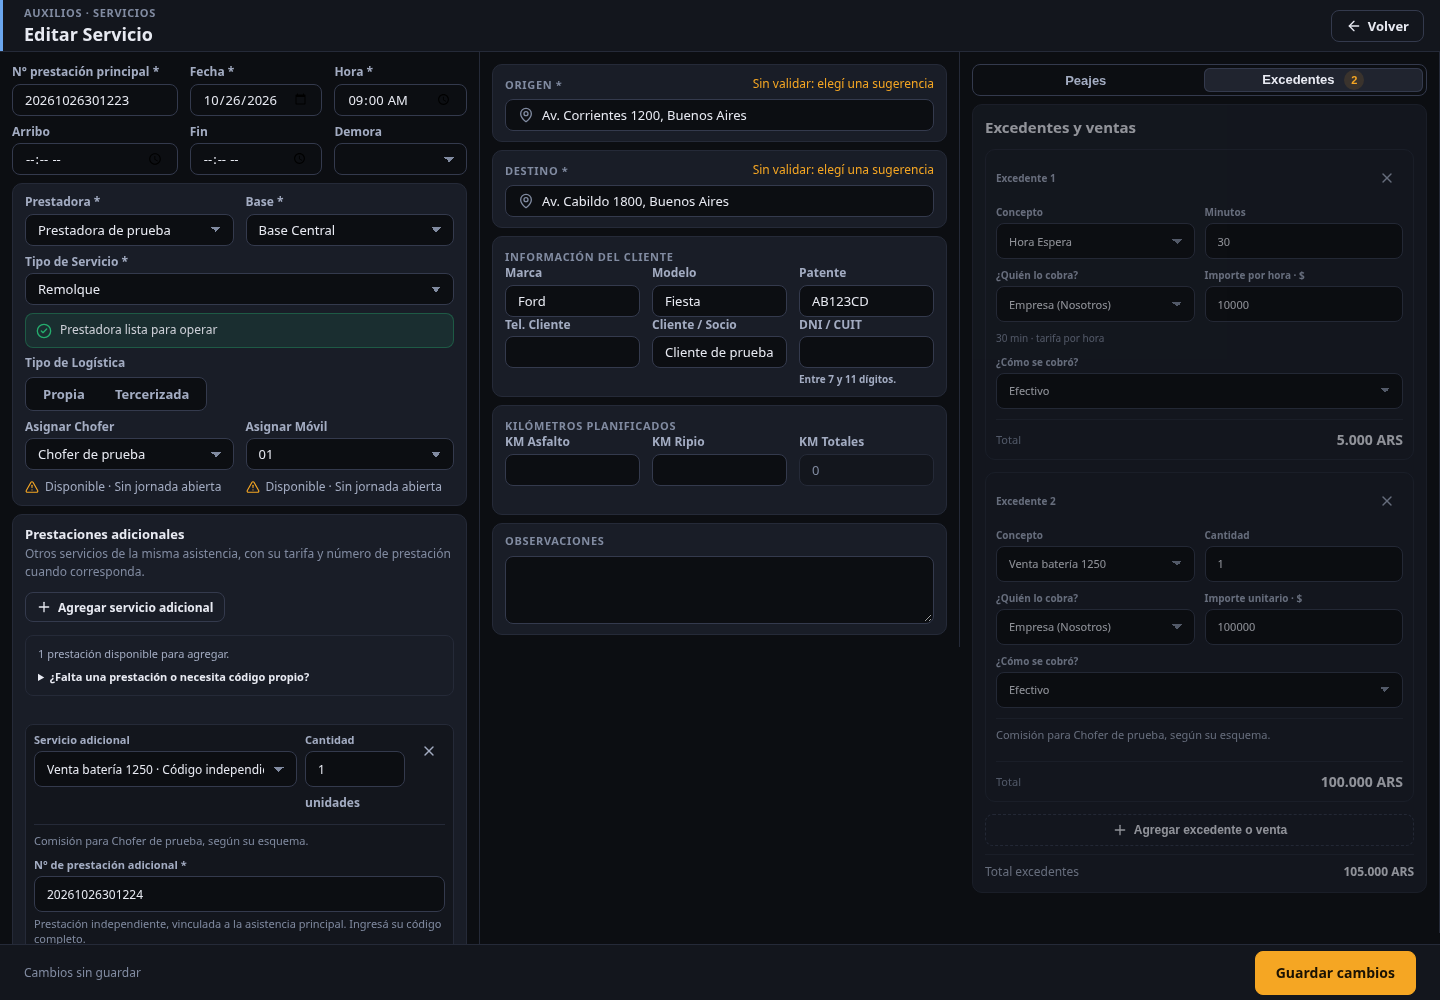
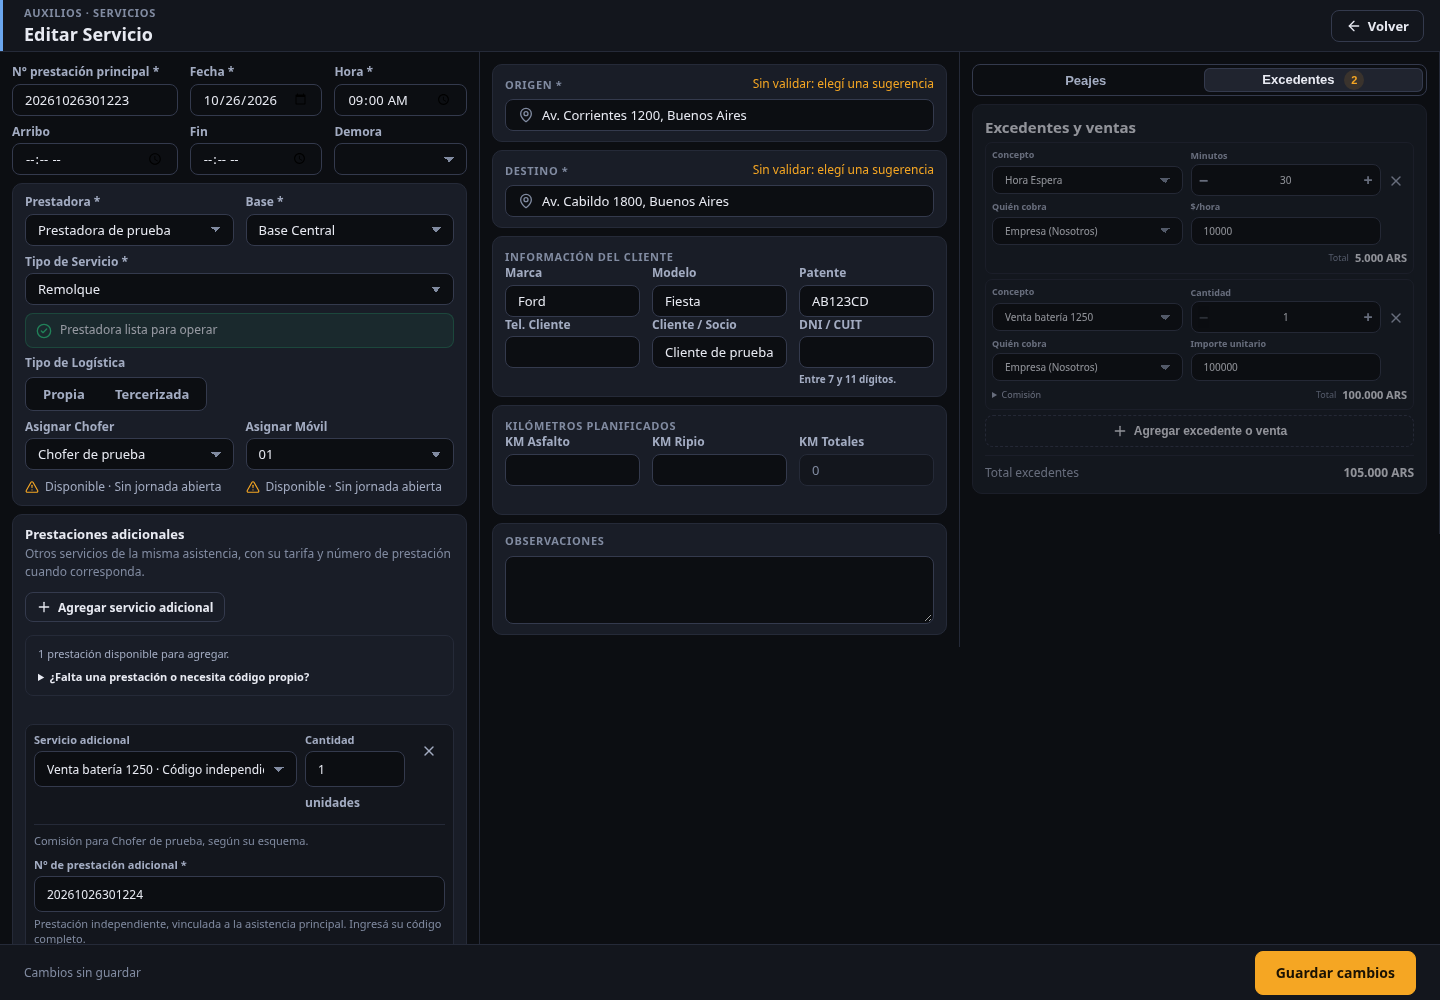
Match excess rows to toll density and add quantity steppers

diff --git a/operator-service-commercial-addons-v1.js b/operator-service-commercial-addons-v1.js
@@ -59,18 +59,16 @@ function renderTollRow(row,index,mode){const {rate}=rateFor(row.toll_id),qty=Mat
  ${disabled?'':`<button type="button" class="osca-remove" data-ca="remove-toll" data-index="${index}" aria-label="Quitar peaje">${ico('x')}</button>`}
  </div>`;}
 function commissionNote(conceptId){const w=W(),rules=(w?.context?.commission_assignments||[]).filter(x=>String(x.concept_id)===String(conceptId));if(!rules.length)return'';const driverId=w.data?.assigned_driver_id||w.serviceSnapshot?.responsible_driver_id||w.serviceSnapshot?.activation_driver_id||w.intakeContext?.service?.assigned_driver_id,driver=O()?.driver?.(driverId),name=driver?.full_name||w.serviceSnapshot?.driver_name||'Chofer del servicio';return `<small class="osca-commission-note">${!driverId?'Comisión: se atribuye al chofer responsable al finalizar.':rules.some(x=>String(x.driver_id)===String(driverId))?'Comisión para '+esc(name)+', según su esquema.':'El chofer responsable no tiene una comisión asignada para este concepto.'}</small>`;}
-function renderExcessRow(row,index){const meta=O()?.excessConcepts?.().find(x=>String(x.concept_id)===String(row.concept_id)),hourly=window.AuxiliosServiceImprovements?.isHourly({...meta,...row}),unit=meta?.pricing_unit||row.pricing_unit,disabled=readOnly(),errors=state.missing?O()?.excessRowErrors?.(row)||{}:{},field=(key,label,control)=>`<label class="osca-excess-field${errors[key]?' is-missing':''}"><span>${label}</span>${control}${errors[key]?`<small class="osca-field-error" role="alert">${esc(errors[key])}</small>`:''}</label>`,attrs=key=>`data-ca-excess-field="${key}" data-index="${index}" ${disabled?'disabled':''} ${errors[key]?'aria-invalid="true"':''}`,qtyLabel=hourly?'Minutos':unit==='km'?'Kilómetros':unit==='day'?'Días':'Cantidad',cp=commercial().customer_payment||{},methods=[...PAYMENTS,...(W()?.administrativeEdit?[['not_collected','No cobrado']]:[['to_define','A definir']])];
- return `<article class="osca-excess-card" data-excess-index="${index}"><header><b>Excedente ${index+1}</b>${disabled?'':`<button type="button" class="osca-remove" data-ca="remove-excess" data-index="${index}" aria-label="Quitar excedente ${index+1}">${ico('x')}</button>`}</header>
- <div class="osca-excess-grid">
+function excessQuantityMeta(row){const meta=O()?.excessConcepts?.().find(x=>String(x.concept_id)===String(row.concept_id)),hourly=!!window.AuxiliosServiceImprovements?.isHourly({...meta,...row}),unit=meta?.pricing_unit||row.pricing_unit;return{hourly,unit,step:hourly?15:unit==='km'?.1:unit==='day'?.5:1,value:hourly?window.AuxiliosServiceImprovements.hoursToMinutes(row.quantity):num(row.quantity)};}
+function renderExcessRow(row,index){const {hourly,unit,step,value}=excessQuantityMeta(row),disabled=readOnly(),errors=state.missing?O()?.excessRowErrors?.(row)||{}:{},field=(key,label,control)=>`<label class="osca-excess-field${errors[key]?' is-missing':''}"><span>${label}</span>${control}${errors[key]?`<small class="osca-field-error" role="alert">${esc(errors[key])}</small>`:''}</label>`,attrs=key=>`data-ca-excess-field="${key}" data-index="${index}" ${disabled?'disabled':''} ${errors[key]?'aria-invalid="true"':''}`,qtyLabel=hourly?'Minutos':unit==='km'?'Kilómetros':unit==='day'?'Días':'Cantidad',commission=commissionNote(row.concept_id);
+ return `<article class="osca-excess-card" data-excess-index="${index}"><div class="osca-excess-grid">
  ${field('concept_id','Concepto',`<select ${attrs('concept_id')}>${conceptOptions(row.concept_id,row.concept_name)}</select>`)}
- ${field('quantity',qtyLabel,`<input type="number" min="${hourly?.6:.01}" step="${hourly?.6:.01}" inputmode="decimal" value="${row.quantity===''?'':hourly?window.AuxiliosServiceImprovements.hoursToMinutes(row.quantity):esc(row.quantity)}" data-minutes="${!!hourly}" ${attrs('quantity')}>`)}
- ${field('collector_agent','¿Quién lo cobra?',`<select ${attrs('collector_agent')}>${optionRows(COLLECTORS,row.collector_agent,'Seleccionar…')}</select>`)}
- ${field('unit_amount',hourly?'Importe por hora · $':unit==='km'?'Importe por km · $':unit==='day'?'Importe por día · $':'Importe unitario · $',`<input type="number" min="0.01" step="0.01" inputmode="decimal" placeholder="0,00" value="${row.unit_amount===''?'':esc(row.unit_amount)}" ${attrs('unit_amount')}>`)}
- </div>
+ <div class="osca-excess-field${errors.quantity?' is-missing':''}"><span>${qtyLabel}</span><div class="osca-stepper osca-excess-stepper"><button type="button" data-ca="excess-qty" data-index="${index}" data-delta="-1" ${disabled||value<=step?'disabled':''} aria-label="Reducir ${qtyLabel.toLowerCase()}">−</button><input aria-label="${qtyLabel}" type="number" min="${hourly?.6:.01}" step="${hourly?.6:.01}" inputmode="decimal" value="${row.quantity===''?'':esc(value)}" data-minutes="${hourly}" ${attrs('quantity')}><button type="button" data-ca="excess-qty" data-index="${index}" data-delta="1" ${disabled?'disabled':''} aria-label="Aumentar ${qtyLabel.toLowerCase()}">+</button></div>${errors.quantity?`<small class="osca-field-error" role="alert">${esc(errors.quantity)}</small>`:''}</div>
+ ${field('collector_agent','Quién cobra',`<select ${attrs('collector_agent')}>${optionRows(COLLECTORS,row.collector_agent,'Seleccionar…')}</select>`)}
+ ${field('unit_amount',hourly?'$/hora':unit==='km'?'$/km':unit==='day'?'$/día':'Importe unitario',`<input type="number" min="0.01" step="0.01" inputmode="decimal" placeholder="0,00" value="${row.unit_amount===''?'':esc(row.unit_amount)}" ${attrs('unit_amount')}>`)}
+ </div>${disabled?'':`<button type="button" class="osca-remove" data-ca="remove-excess" data-index="${index}" aria-label="Quitar excedente ${index+1}">${ico('x')}</button>`}
  ${isExcessOther(row.concept_id)?field('concept_name','Descripción',`<input type="text" maxlength="80" placeholder="¿Qué se cobró?" value="${esc(row.concept_name||'')}" ${attrs('concept_name')}>`):''}
- ${hourly?`<small class="osca-excess-help" data-excess-duration="${index}">${window.AuxiliosServiceImprovements.duration(row.quantity)} · tarifa por hora</small>`:''}
- ${row.collector_agent==='company'?`<label class="osca-excess-field"><span>¿Cómo se cobró?</span><select data-ca-excess-payment="${index}" ${disabled?'disabled':''}>${optionRows(methods,cp.primary,'Seleccionar medio…')}</select>${cp.secondary?`<small class="osca-excess-help">${esc(paymentName(cp.primary))} + ${esc(paymentName(cp.secondary))}</small>`:''}</label>`:row.collector_agent==='provider'?'<small class="osca-excess-help">Cobro a cargo de la prestadora.</small>':''}
- ${commissionNote(row.concept_id)}<footer><small>Total</small><b data-excess-total="${index}">${money(num(row.quantity)*num(row.unit_amount),row.currency)}</b></footer>
+ <footer>${commission?`<details class="osca-excess-commission"><summary>Comisión</summary>${commission}</details>`:''}<small>Total</small><b data-excess-total="${index}">${money(num(row.quantity)*num(row.unit_amount),row.currency)}</b></footer>
  </article>`;}
 function actualTolls(){const rows=W()?.data?.actual_tolls||[];if(!rows.length)return'';return`<div class="osca-actual"><b>Peajes reales informados</b>${rows.map(row=>`<span>${esc(row.toll_name||'Peaje')} · ${Math.max(1,num(row.quantity)||1)} × ${money(row.unit_amount,row.currency||'ARS')}</span>`).join('')}</div>`;}
 function coverageList(c,disabled){return`<div class="osca-format-list" role="radiogroup" aria-label="Formato de cobro">${COVERAGE.map(([value,label])=>`<button type="button" role="radio" aria-checked="${String(c.toll_coverage_mode)===value}" data-ca="coverage" data-value="${value}" class="${String(c.toll_coverage_mode)===value?'active':''}" ${disabled?'disabled':''}><span class="osca-radio"></span><b>${esc(label)}</b></button>`).join('')}</div>`;}
@@ -103,16 +101,16 @@ function addDetectedTollsAdmin(items){const c=commercial(),payer=fixedPayer(c.to
 /* Los campos de las filas ya no llevan el rótulo a la vista (ahorra espacio): cada uno lo conserva para lectores de pantalla y al pasar el mouse. */
 function labelFields(){document.querySelectorAll('.osv4-reactive .osca-matrix-row > [data-label]').forEach(box=>{const name=box.dataset.label,control=box.querySelector('select,input');if(control&&!control.getAttribute('aria-label')){control.setAttribute('aria-label',name);if(!control.title)control.title=name;}});}
 function customerPaymentProps(){const o=O(),c=commercial(),tolls=o?.commercialCustomerTollTotal?.()||0,excess=o?.commercialCompanyExcessTotal?.()||0;return{total:o?.customerPaymentTotal?.()||0,breakdown:[{label:'Peajes del cliente',amount:tolls},{label:'Excedentes que cobra la Empresa',amount:excess}],value:c.customer_payment||{},allowToDefine:!W()?.administrativeEdit,allowNotCollected:!!W()?.administrativeEdit,disabled:readOnly(),showErrors:!!state.missing,hint:'Un solo cobro para todo lo que paga el cliente. Si pagó con dos medios, cargá cuánto fue con el segundo.',onChange:next=>{o?.setCustomerPayment?.(next);paintCustomerPayment();}};}
-function paintCustomerPayment(){document.querySelectorAll('[data-ca-excess-payment]').forEach(select=>{select.value=commercial().customer_payment?.primary||'';select.dispatchEvent(new Event('change',{bubbles:false}));});const slot=document.getElementById('osca-customer-payment');if(slot&&window.AuxiliosCustomerPayment)window.AuxiliosCustomerPayment.render(slot,customerPaymentProps());}
+function paintCustomerPayment(){const slot=document.getElementById('osca-customer-payment');if(slot&&window.AuxiliosCustomerPayment)window.AuxiliosCustomerPayment.render(slot,customerPaymentProps());}
 /* Corrección administrativa (remito firmado): misma pantalla que Nuevo servicio y, abajo, los cargos del remito para comparar. */
 function administrativeReport(){const w=W();if(!w?.administrativeEdit||w.intakeActivated)return'';return`<details class="osaa-original" ${(state.reportOpen??reportOpenByDefault(w))?'open':''}><summary>Cargos del remito firmado</summary>${(()=>{const review=window.AuxiliosRemitoReviewV2?.reviewReport?.();return review?review+reportedPayment(w.reportedAddons):reportedCharges(w.reportedAddons);})()}</details>`;}
 function render(){const w=W();if(w&&!state.autoOpened&&w.mode==='create'&&!w.administrativeEdit&&!(w.intakeId&&!w.intakeActivated)){state.autoOpened=true;if(state.open==null)state.open='tolls';}renderInner();labelFields();/* Listas con el aspecto del sistema (como el resto de los formularios). */document.querySelectorAll('.osv4-reactive .osca-panel select:not([data-ax-enhanced])').forEach(x=>window.AxUI?.select?.(x));}
 function renderInner(){const w=W(),column=document.querySelector('.osv4-reactive .actions-column');if(!w||!column)return;state.reportOpen=column.querySelector('details.osaa-original')?.open??state.reportOpen;const classification=document.getElementById('osv4-activation-classification');classification?.remove();const review=column.querySelector('#osv4-review-slot');review?.remove();/* El historial vive en esta columna y se conserva al repintarla. */const history=column.querySelector('#osv4-history-panel');state.historyAllowed=history?history.dataset.allowed==='true':state.historyAllowed;history?.remove();/* Interruptores sí/no (Pinacars): se conservan al repintar. */const toggles=column.querySelector('#osv4-toggles');toggles?.remove();/* Tercerizado: también se conserva, arriba de todo. */const terc=column.querySelector('#osv4-terc');terc?.remove();/* Cobro al cliente (React): se conserva el nodo para no perder el estado del componente. */const cpSlot=column.querySelector('#osca-customer-payment');cpSlot?.remove();const restoreReview=()=>{if(toggles)column.prepend(toggles);if(terc)column.prepend(terc);if(classification)column.append(classification);column.append(review||Object.assign(document.createElement('div'),{id:'osv4-review-slot',className:'osv4-review-slot'}));if(history){history.hidden=!(history.dataset.allowed==='true'&&state.open==='history');column.append(history);}};const c=commercial(),disabled=readOnly(),provider=O()?.commercialProviderTollTotal?.()||0,customer=O()?.commercialCustomerTollTotal?.()||0,excess=O()?.commercialCustomerExcessTotal?.()||0;column.innerHTML=`${activationCard()}${W()?.serviceSnapshot?.driver_activated||w.administrativeEdit?'':remitoCard()}${actionTabs(c)}
  ${state.open==='tolls'?`<section class="osca-panel tolls">${coverageControl(c,disabled)}${tollMatrix(c)}${actualTolls()}${c.tolls.length?`<div class="osca-summary"><span>A cargo de la Prestadora</span><b>${money(provider)}</b><span>A cargo del cliente</span><b>${money(customer)}</b></div>`:''}</section>`:''}
  ${state.open==='excess'?`<section class="osca-panel excess">${excessMatrix(c)}${c.excess_charges.length?`<div class="osca-summary single"><span>Total excedentes</span><b data-excess-summary>${money(excess)}</b></div>`:''}</section>`:''}<div id="osca-customer-payment-anchor"></div>${administrativeReport()}`;const anchor=column.querySelector('#osca-customer-payment-anchor'),slot=cpSlot||Object.assign(document.createElement('div'),{id:'osca-customer-payment',className:'osca-customer-payment'});const showCp=(O()?.customerPaymentTotal?.()||0)>0;slot.hidden=!showCp;anchor.replaceWith(slot);restoreReview();if(showCp)paintCustomerPayment();}
-function onClick(event){const button=event.target.closest?.('[data-ca]');if(!button)return;const action=button.dataset.ca;if(action==='finalize-activated')return window.OperatorServiceLifecycleV2?.openActivatedFinalize?.(W()?.serviceId);if(action==='open-remito')return window.abrirRemitoFirmadoOperador?.(W()?.serviceId);if(action==='toggle-tolls'){state.open=state.open==='tolls'?null:'tolls';state.coverageEditing=false;return render();}if(action==='toggle-history'){state.open=state.open==='history'?null:'history';return render();}if(action==='toggle-excess'){state.open=state.open==='excess'?null:'excess';return render();}if(action==='change-coverage'&&!readOnly()){state.coverageEditing=true;return render();}if(readOnly())return;if(action==='coverage'){state.coverageEditing=false;return O()?.setCommercialCoverage?.(button.dataset.value||'');}if(action==='new-toll')return O()?.addCommercialToll?.();if(action==='detect-tolls'){Promise.resolve(window.AuxiliosTollDetection?.detect?.()).finally(()=>render());return;}if(action==='new-excess'){const rows=commercial().excess_charges,empty=rows.findIndex(r=>!r.concept_id);if(empty<0)O()?.addCommercialExcess?.();const index=empty<0?commercial().excess_charges.length-1:empty;const input=document.querySelector(`[data-excess-index="${index}"] [data-ca-excess-field="concept_id"]`);(input?.nextElementSibling?.querySelector('.ax-select-btn')||input)?.focus();return;}if(action==='remove-toll')return O()?.removeCommercialToll?.(Number(button.dataset.index));if(action==='duplicate-tolls')return O()?.duplicateCommercialTolls?.();if(action==='remove-excess')return O()?.removeCommercialExcess?.(Number(button.dataset.index));if(action==='toll-payer')return O()?.updateCommercialToll?.(Number(button.dataset.index),'payer_agent',button.dataset.value,true);if(action==='toll-qty'){const i=Number(button.dataset.index),r=commercial().tolls[i];if(!r)return;return O()?.updateCommercialToll?.(i,'quantity',Math.max(1,Math.round(num(r.quantity)||1)+Number(button.dataset.delta||0)),true);}}
+function onClick(event){const button=event.target.closest?.('[data-ca]');if(!button)return;const action=button.dataset.ca;if(action==='finalize-activated')return window.OperatorServiceLifecycleV2?.openActivatedFinalize?.(W()?.serviceId);if(action==='open-remito')return window.abrirRemitoFirmadoOperador?.(W()?.serviceId);if(action==='toggle-tolls'){state.open=state.open==='tolls'?null:'tolls';state.coverageEditing=false;return render();}if(action==='toggle-history'){state.open=state.open==='history'?null:'history';return render();}if(action==='toggle-excess'){state.open=state.open==='excess'?null:'excess';return render();}if(action==='change-coverage'&&!readOnly()){state.coverageEditing=true;return render();}if(readOnly())return;if(action==='coverage'){state.coverageEditing=false;return O()?.setCommercialCoverage?.(button.dataset.value||'');}if(action==='new-toll')return O()?.addCommercialToll?.();if(action==='detect-tolls'){Promise.resolve(window.AuxiliosTollDetection?.detect?.()).finally(()=>render());return;}if(action==='new-excess'){const rows=commercial().excess_charges,empty=rows.findIndex(r=>!r.concept_id);if(empty<0)O()?.addCommercialExcess?.();const index=empty<0?commercial().excess_charges.length-1:empty;const input=document.querySelector(`[data-excess-index="${index}"] [data-ca-excess-field="concept_id"]`);(input?.nextElementSibling?.querySelector('.ax-select-btn')||input)?.focus();return;}if(action==='remove-toll')return O()?.removeCommercialToll?.(Number(button.dataset.index));if(action==='duplicate-tolls')return O()?.duplicateCommercialTolls?.();if(action==='remove-excess')return O()?.removeCommercialExcess?.(Number(button.dataset.index));if(action==='toll-payer')return O()?.updateCommercialToll?.(Number(button.dataset.index),'payer_agent',button.dataset.value,true);if(action==='excess-qty'){const i=Number(button.dataset.index),row=commercial().excess_charges[i];if(!row)return;const q=excessQuantityMeta(row),value=Math.round(Math.max(q.hourly?.6:.01,(q.value||0)+q.step*Number(button.dataset.delta||0))*100)/100;return O()?.updateCommercialExcess?.(i,'quantity',q.hourly?window.AuxiliosServiceImprovements.minutesToHours(value):value,true);}if(action==='toll-qty'){const i=Number(button.dataset.index),r=commercial().tolls[i];if(!r)return;return O()?.updateCommercialToll?.(i,'quantity',Math.max(1,Math.round(num(r.quantity)||1)+Number(button.dataset.delta||0)),true);}}
 function onInput(event){if(readOnly())return;const target=event.target;if(target.dataset.caField==='unit_amount')O()?.updateCommercialToll?.(Number(target.dataset.index),'unit_amount',target.value,false);if(target.dataset.caField==='quantity')O()?.updateCommercialToll?.(Number(target.dataset.index),target.dataset.caField,target.value,false);if(['quantity','unit_amount','concept_name'].includes(target.dataset.caExcessField))O()?.updateCommercialExcess?.(Number(target.dataset.index),target.dataset.caExcessField,target.value===''?'':target.dataset.minutes==='true'?window.AuxiliosServiceImprovements.minutesToHours(target.value):target.value,false);if(target.dataset.caExcessField){const key=target.dataset.caExcessField,field=target.closest('.osca-excess-field'),errors=O()?.excessRowErrors?.(commercial().excess_charges[Number(target.dataset.index)])||{};if(!errors[key]){target.removeAttribute('aria-invalid');field?.classList.remove('is-missing');field?.querySelector('.osca-field-error')?.remove();}const summary=document.querySelector('[data-excess-summary]');if(summary)summary.textContent=money(O()?.commercialCustomerExcessTotal?.()||0);const i=Number(target.dataset.index),row=commercial().excess_charges[i],total=document.querySelector(`[data-excess-total="${i}"]`);if(total&&row)total.textContent=money(num(row.quantity)*num(row.unit_amount),row.currency);const duration=document.querySelector(`[data-excess-duration="${i}"]`);if(duration&&row)duration.textContent=window.AuxiliosServiceImprovements.duration(row.quantity)+' · tarifa por hora';paintCustomerPayment();}}
-function onChange(event){if(readOnly())return;const target=event.target;if(target.dataset.caExcessPayment!==undefined){const cp=commercial().customer_payment||{},primary=target.value,reset=primary===cp.secondary||['to_define','not_collected'].includes(primary);O()?.setCustomerPayment?.({primary,...(reset?{secondary:'',secondary_amount:''}:{})});render();return;}if(target.dataset.caField!==undefined)return O()?.updateCommercialToll?.(Number(target.dataset.index),target.dataset.caField,target.value,true);if(target.dataset.caExcessField!==undefined)return O()?.updateCommercialExcess?.(Number(target.dataset.index),target.dataset.caExcessField,target.value===''?'':target.dataset.minutes==='true'?window.AuxiliosServiceImprovements.minutesToHours(target.value):target.value,!['quantity','unit_amount','concept_name'].includes(target.dataset.caExcessField));}
+function onChange(event){if(readOnly())return;const target=event.target;if(target.dataset.caField!==undefined)return O()?.updateCommercialToll?.(Number(target.dataset.index),target.dataset.caField,target.value,true);if(target.dataset.caExcessField!==undefined)return O()?.updateCommercialExcess?.(Number(target.dataset.index),target.dataset.caExcessField,target.value===''?'':target.dataset.minutes==='true'?window.AuxiliosServiceImprovements.minutesToHours(target.value):target.value,!['quantity','unit_amount','concept_name'].includes(target.dataset.caExcessField));}
 function bind(){if(state.bound)return;state.bound=true;document.addEventListener('click',onClick);document.addEventListener('input',onInput);document.addEventListener('change',onChange);}
 /* Abierto mientras se revisa; retraído cuando el servicio ya está cerrado o
    se abre solo para consultar. Si el usuario lo abre o cierra, se respeta. */

diff --git a/operator-service-commercial-addons-v1.css b/operator-service-commercial-addons-v1.css
@@ -212,3 +212,24 @@
 .osca-excess-card .ax-select-box{min-width:0;width:100%}
 .osca-excess-card .ax-select-btn{font-size:11px!important;min-width:0;overflow:hidden}
 .osca-excess-card .osca-excess-help{font-size:10px;line-height:1.35}
+
+/* Compact excess rows, matching the toll controls. Payment stays in Cobro al cliente. */
+.osca-excess-editor,.osca-excess-list{gap:5px}
+.osca-excess-card{grid-template-columns:minmax(0,1fr) 22px;gap:4px;padding:6px;border-radius:7px}
+.osca-excess-card .osca-excess-grid{grid-column:1;grid-row:1;gap:5px 8px}
+.osca-excess-card .osca-excess-field{gap:2px}
+.osca-excess-card .osca-excess-field>span{font-size:9px}
+.osca-excess-card :is(input,select),.osca-excess-card .ax-select-btn{height:28px!important;min-height:28px!important;padding-top:2px;padding-bottom:2px;font-size:10px!important}
+.osca-excess-card>.osca-remove{grid-column:2;grid-row:1;align-self:start;margin-top:14px;width:22px;height:28px;min-height:28px!important}
+.osca-excess-card>.osca-excess-field{grid-column:1/-1}
+.osca-excess-card>footer{grid-column:1/-1;gap:6px;justify-content:flex-end;padding:0;border:0;min-height:18px}
+.osca-excess-card>footer small{font-size:9px}.osca-excess-card>footer b{font-size:11px}
+.osca-excess-stepper{display:grid;grid-template-columns:24px minmax(0,1fr) 24px;min-width:0;height:28px}
+.osca-excess-stepper input{text-align:center;width:100%;padding:0!important;border:0!important;background:transparent!important;appearance:textfield;-moz-appearance:textfield}
+.osca-excess-stepper input::-webkit-inner-spin-button,.osca-excess-stepper input::-webkit-outer-spin-button{-webkit-appearance:none;margin:0}
+.osca-excess-stepper button{width:24px!important;height:26px!important;min-height:26px!important;padding:0!important}
+.osca-excess-commission{margin-right:auto;font-size:9px;color:var(--osv2-muted2)}.osca-excess-commission summary{cursor:pointer}.osca-excess-commission .osca-commission-note{padding:4px 0;font-size:10px!important;border:0}
+@media(max-width:600px){.osca-excess-card :is(input,select),.osca-excess-card .ax-select-btn{height:32px!important;min-height:32px!important}.osca-excess-stepper{height:32px}.osca-excess-stepper button{height:30px!important;min-height:30px!important}}
+.osca-excess-card>.osca-remove{min-width:0!important;padding:0!important;box-sizing:border-box}
+.osca-excess-stepper{align-items:center}.osca-excess-stepper button{display:grid;place-items:center;line-height:1;min-width:0!important}
+#modal-operador-wizard .osca-excess-card>.osca-remove{position:static!important;width:22px!important;min-width:0!important;max-width:22px!important;margin:14px 0 0!important;transform:none!important}
